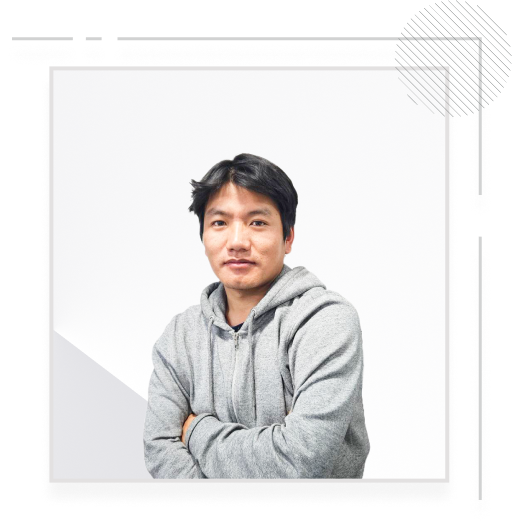
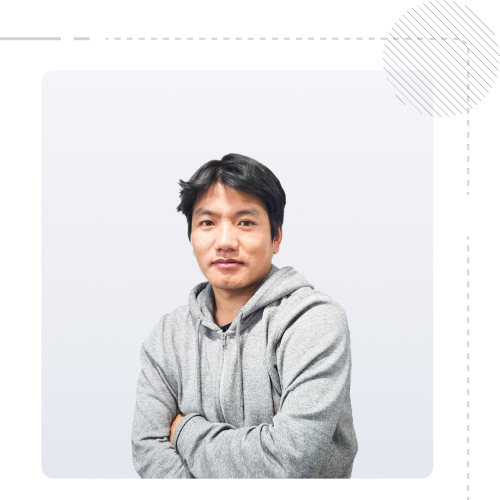
background images fixes

Changed region(s): [[0.0, 0.0, 1.0, 0.96], [0.93, 0.45, 0.96, 0.96], [0.06, 0.9, 0.09, 0.93]]

diff --git a/css/style.css b/css/style.css
@@ -29,13 +29,14 @@
 }
 .main-layout{
      scroll-behavior: smooth;
-     position: relative; 
-     background-image: url("../images/grid.svg");
-     background-repeat: repeat-y;
-     width: 100%;
-     background-size: cover;
-     background-attachment: fixed;
+     position: relative;
+     background: 
+         url("../images/grid.svg") repeat-y fixed center center, /* Image Layer */
+         url("../images/Color.svg") repeat-y fixed center center, /* Image Layer */
 
+         linear-gradient(180deg, #E5E6E6 0%, #EEF0F3 100%);   
+     background-size: cover;
+     width: 100%;
 }
 
 .container {
@@ -155,7 +156,6 @@ a,
 }
 
 img {
-     max-width: 100%;
      height: auto;
 }
 
@@ -480,7 +480,6 @@ ul.email li i {
      color: #2b2b2b;
 }
 .offer{
-     background: linear-gradient(85.91deg,#faf4fd -31.4%,#f3f3fb 57.96%,#fbfbfe 146.43%);
      padding: 56px 112px 80px 112px ;
      overflow: visible;
 }
@@ -498,12 +497,12 @@ ul.email li i {
 }
 .offercard{
      height: 380px;
-     border-radius: 16px;
      padding: 32px 24px 24px 24px;
-     background:white;
      background-size: 400% 400%;
      box-shadow: 0px 12px 19px 0px #0000000F;
-    
+     border-radius: 32px;
+     border: 2px solid rgba(255, 255, 255, 0.50);
+     background: var(--Gradient, linear-gradient(180deg, #F5F5F9 0%, #E4E8EE 100%));
       /*min-height: calc(100vh - 2rem);*/
       display: flex;
       flex-direction: column;
@@ -551,9 +550,9 @@ padding-bottom: 24px;
      border-radius: 32px;
      justify-content: center;
      padding: 48px 80px 48px 80px;
-     background: -moz-linear-gradient(45deg, #03032D 0%, #4343af 29%, #03032D 66%, #022b33 100%);
-     background: -webkit-linear-gradient(45deg, #03032D 0%,rgb(1, 28, 35) 29%,rgb(2, 32, 39) 66%,#03032D 100%);
-     background: linear-gradient(45deg, #03032D 0%,#03032D 29%,#03032D 66%,#03032D 100%);
+     background: -moz-linear-gradient(45deg, #000003 0%, #000008 29%, #000003 66%, #000003 100%);
+     background: -webkit-linear-gradient(45deg, hwb(240 0% 97%) 0%,rgb(1, 28, 35) 29%,rgb(2, 32, 39) 66%,#000003 100%);
+     background: linear-gradient(45deg, #000003 0%,#000003 29%,#000003 66%,#000003 100%);
      background-size: 400% 400%;
      -webkit-animation: Gradient 10s ease infinite;
       -moz-animation: Gradient 10s ease infinite;
@@ -689,7 +688,8 @@ padding-bottom: 24px;
 .about .container-fluid{
      padding: 80px 0px 80px 0px;
      border-radius: 32px;
-    background: rgba(245, 245, 245, 0.7);
+     border: 2px solid rgba(255, 255, 255, 0.50);
+     background: var(--Gradient, linear-gradient(180deg, #F5F5F9 0%, #E4E8EE 100%));
 
 }
 .about .titlepage {
@@ -1449,3 +1449,113 @@ letter-spacing: 0.5px;
      padding: 12px 50px;
    }
  }
+.cases{
+   Padding-top: 64px;
+}
+
+.cases h2{
+     padding-bottom: 24px;
+     font-size: 45px;
+     line-height: 60px;
+     font-weight: bold;
+     justify-content: center;
+     text-align:left;
+     }
+
+.cases h3{
+          font-size:20px;
+          font-weight: 600;
+          padding-bottom: 16px;
+     }
+.cases p {
+      font-weight: 400;
+      font-size: 16px;
+      line-height: 30px;
+      padding-bottom: 32px;
+      justify-content: center;
+      text-align: left;
+      font-weight: 300px;;
+     }
+.problemstatment{
+    padding-bottom:  56px;;
+     margin-left: 180px;
+     margin-right: 180px;
+
+}
+
+.users{
+     padding-bottom:  56px;;
+     margin-left: 180px;
+     margin-right: 180px;
+     margin-right: 180px;
+
+
+}
+.designprocess{
+     padding-bottom:  56px;;
+     margin-left: 180px;
+     margin-right: 180px;
+}
+.designprocess img{
+     width: 100%;
+}
+.discovery{
+     background-color: #F5F5F5;
+     padding: 48px 180px 56px 180px;
+     align-items: center;
+     
+
+}
+.questions{
+     display: flex;
+}
+.bullet{
+     padding-right:16px;
+}
+.bullet img{
+     width:24px;
+     height:24px;
+
+}
+.usergroup{
+          display: flex;
+          flex-direction: row;
+          align-items: stretch;
+          justify-content: space-evenly;
+          overflow: visible;
+          position: relative; 
+          padding-bottom: 64px;
+     }
+.usergroupcard{
+          height: 380px;
+          border-radius: 16px;
+          padding: 32px 32px 32px 32px;
+          background:white;
+          background-size: 400% 400%;
+          box-shadow: 0px 12px 19px 0px #0000000F;
+          display: flex;
+          flex-direction: column;
+          align-items: stretch;
+          overflow: visible;
+          position: relative; 
+          width: 800px;
+          margin-right: 24px;
+     }
+.usergroupcard .serviceicon{
+          height: 48px;
+          width: 48px;
+          margin-bottom: 24px;
+     }
+.usergroupcard .cardline{
+          width: 56px;
+          padding-bottom: 16px;
+     }
+.usergroupcard h3{
+          font-size:18px;
+          font-weight: 600;
+          padding-bottom: 16px;
+     }
+.usergroupcard p{
+          font-size:16px;
+          color: #6A6F6F;
+     }
